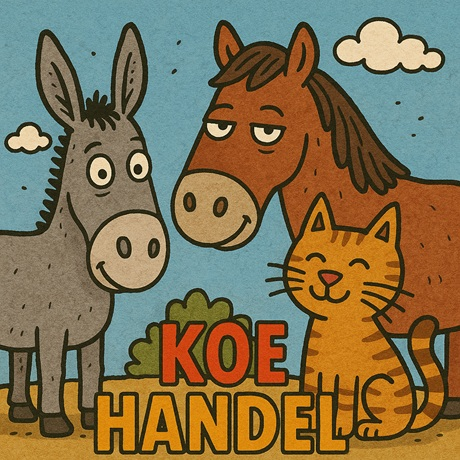
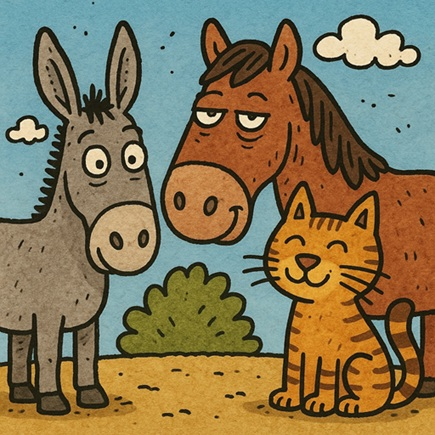
make home page nicer

diff --git a/KoeHandel.Frontend/src/app/pages/home/home.scss b/KoeHandel.Frontend/src/app/pages/home/home.scss
@@ -1,7 +1,7 @@
 @import '../../../assets/styles/abstracts/variables';
 
 
-:host{
+:host {
     height: 100%;
     display: grid;
     grid-template-rows: 60% 40%;
@@ -9,14 +9,20 @@
 
 .top-box {
     width: 100%;
+    display: flex;
+    flex-direction: column;
+}
+
+.top-box app-title {
+    margin-bottom: 24px;
 }
 
 .bottom-box {
     width: 100%;
     display: flex;
     flex-direction: column;
-    align-items: center;            /* Vertically center items */
-    justify-content: space-evenly; 
+    align-items: center;
+    justify-content: space-evenly;
 }
 
 .w100 {
@@ -24,15 +30,36 @@
 }
 
 img {
-  display: block;
-  max-width: 100%;
-  max-height: 100%;
-  margin: auto;
-  /* Optionally, ensure img itself fills container */
-  width: 100%;
-  height: 100%;
-  object-fit: cover; /* Ensures the image is scaled to fit and centered */
+    display: block;
+    margin: auto;
+    width: 100%;
+    height: 100%;
+    object-fit: cover;
+    /* Ensures the image is scaled to fit and centered */
     border-radius: 12px;
-    cursor: pointer;
     border: 5px solid $linework-color;
+}
+
+.title-box {
+    margin: 17px;
+    font-weight: bold;
+    text-transform: uppercase;
+    letter-spacing: 2px;
+    text-shadow:
+    -3px -8px 0 $linework-color,
+     3px -8px 0 $linework-color,
+    -3px  8px 0 $linework-color,
+     3px  8px 0 $linework-color;
+     * {
+         font-size: 50px;
+     }
+     text-align: center;
+}
+
+.title-first {
+  color: #ff5733; /* red-orange */
+}
+
+.title-second {
+  color: #ffe066; /* yellow-sandy */
 }

diff --git a/KoeHandel.Frontend/src/app/pages/home/home.ts b/KoeHandel.Frontend/src/app/pages/home/home.ts
@@ -1,10 +1,11 @@
 import { Component, inject } from '@angular/core';
 import { Button } from "../../components/button/button";
+import { Title } from "../../components/title/title";
 import { Router } from '@angular/router';
 
 @Component({
   selector: 'app-home',
-  imports: [Button],
+  imports: [Button, Title],
   templateUrl: './home.html',
   styleUrl: './home.scss'
 })

diff --git a/KoeHandel.Frontend/src/app/pages/home/home.html b/KoeHandel.Frontend/src/app/pages/home/home.html
@@ -1,4 +1,8 @@
 <div class="top-box">
+    <div class="title-box">
+        <span class="title-first">Koe</span>
+        <span class="title-second">Handel</span>
+    </div>
     <img src="/assets/front-image.jpg" alt="">
 </div>
 <div class="bottom-box">
